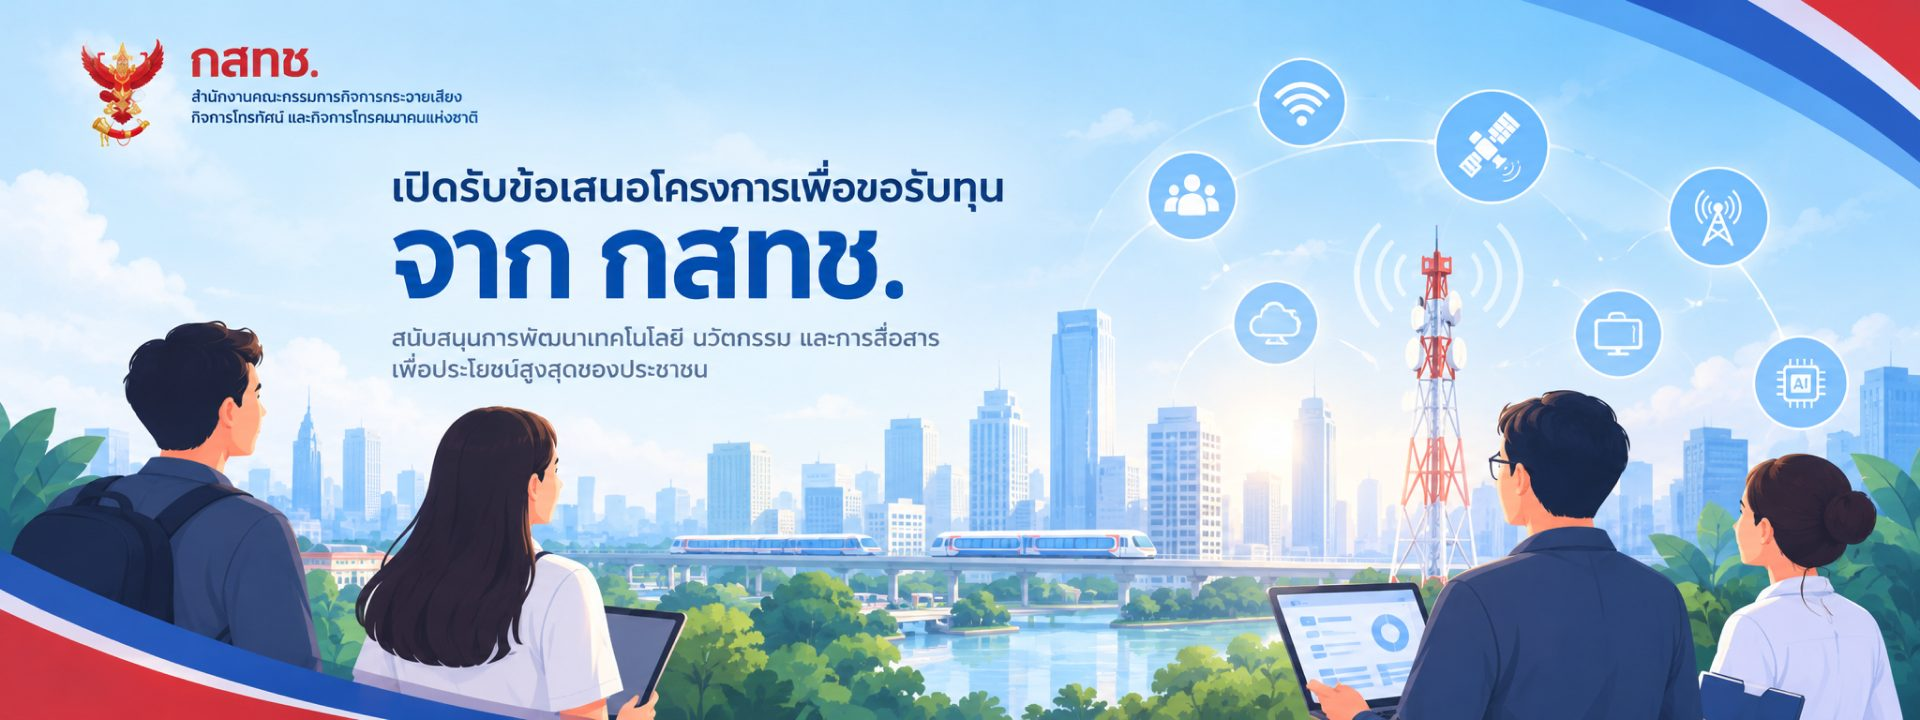
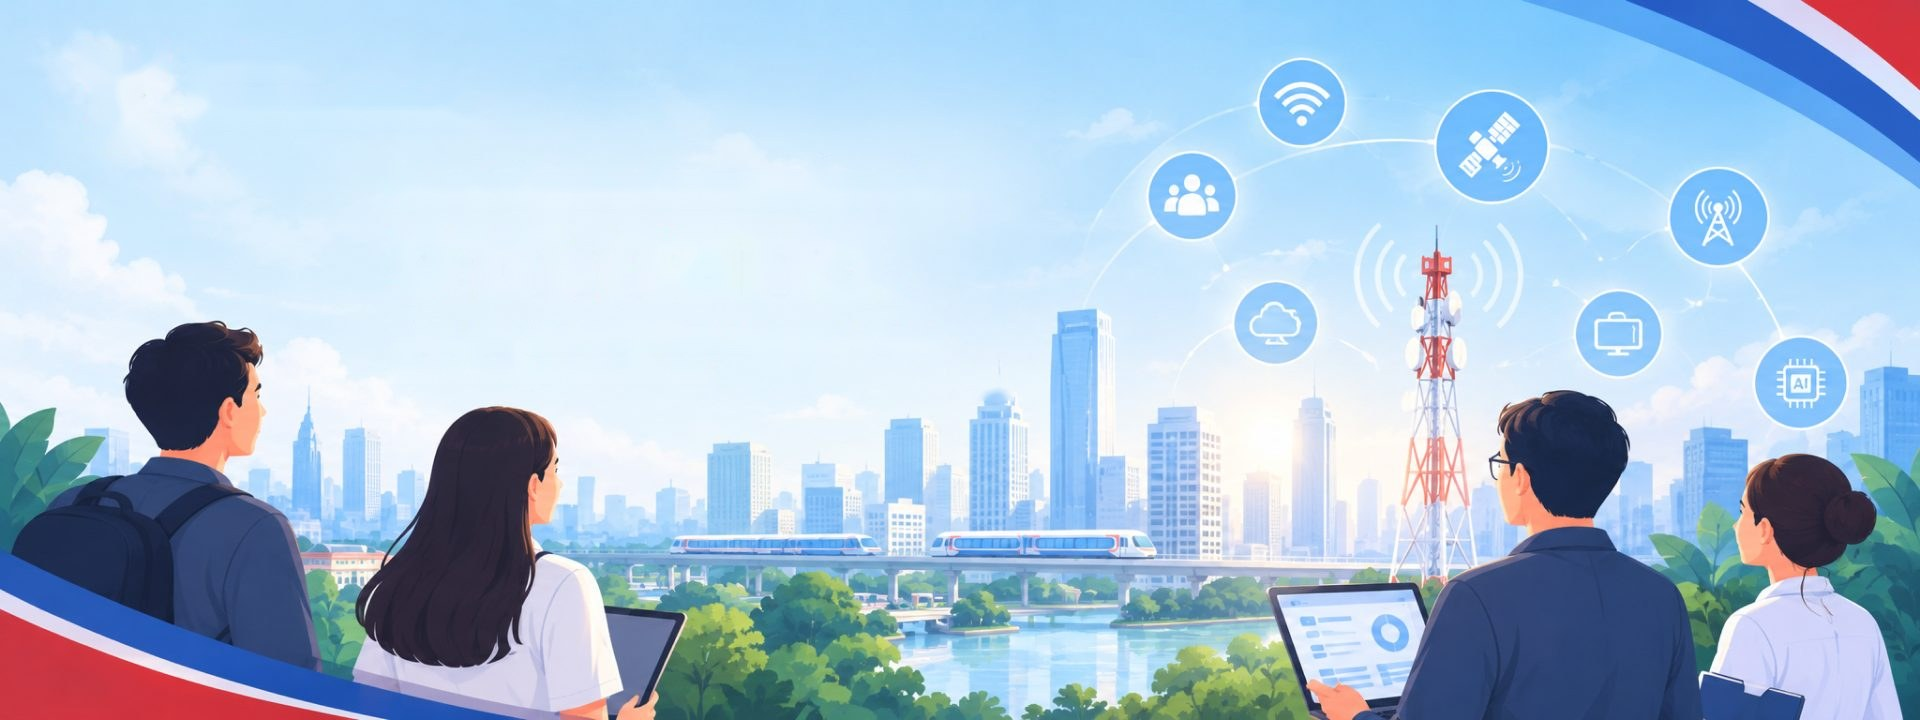
Hero สไลด์แรกใช้รูปไม่มีตัวหนังสือ ข้อความเป็น HTML ตามกฎ CT-01 รูปเดียวทั้งคอมพิวเตอร์และมือถือ
Claude-Session: https://claude.ai/code/session_01D8bS8HSU5t6nrW37xry9M6

Changed region(s): [[0.1875, 0.2139, 0.5312, 0.4278], [0.0312, 0.0611, 0.25, 0.2139], [0.1875, 0.4583, 0.5, 0.55]]

diff --git a/src/app/shared/ui/public/hero-banner.ts b/src/app/shared/ui/public/hero-banner.ts
@@ -19,12 +19,10 @@ import { BtfpIcon } from '../icon/icon';
 /**
  * btfp-hero-slide : สไลด์หนึ่งแผ่นใน btfp-hero-banner (Figma: Domain/Hero Banner, Slide=1/2/3)
  *
- * ภาพพื้นหลังออกแบบไว้ที่ 1920x720 แบบ 2 ชนิด
- * 1. ภาพที่มีข้อความอยู่ในภาพแล้ว (Slide=1) ใส่ artX / artY เป็นพิกัดของปุ่มในภาพขนาด 1920x720
- *    จอเล็กกว่า 640px ใส่ mobileImage (ภาพ 390x440) และ mobileArtX / mobileArtY เพื่อไม่ให้ข้อความในภาพโดนตัด
- *    ปุ่มจะขยับตามภาพทุกขนาดจอ
- * 2. ภาพ + ข้อความ HTML (Slide=2, 3) ใส่ overlay เพื่อทับสีน้ำเงินไล่ระดับ ข้อความเรียงซ้ายแนวเดียวกับเนื้อหาของหน้า
- *    ใส่ h1/h2 (หัวข้อ) p (คำอธิบาย) และปุ่มไว้ข้างใน ตัวอักษรจัดให้แล้ว
+ * ตามกฎหลังบ้าน CT-01 (เนื้อหาเว็บไซต์: Banner) ที่ยืนยันแล้ว
+ * - รูปเดียวใช้ทั้งคอมพิวเตอร์และมือถือ ขนาด 1920x720 จอที่สัดส่วนต่างไปจะครอปช่วงกลางของรูป (object-fit: cover)
+ * - รูปห้ามมีตัวหนังสือ หัวข้อ คำอธิบาย ป้ายกำกับ และปุ่มเป็นข้อความ HTML ที่ระบบวางทับ
+ * ใส่ overlay เพื่อทับสีน้ำเงินไล่ระดับให้อ่านตัวหนังสือสีขาวได้ ใส่ h1/h2 (หัวข้อ) p (คำอธิบาย) และปุ่มไว้ข้างใน ตัวอักษรจัดให้แล้ว
  *
  * @example
  * <btfp-hero-slide image="images/landing/hero-slide-2.jpg" overlay tag="ทุนประเภท 2 เปิดรับแล้ว" tagSeverity="success">
@@ -47,25 +45,13 @@ import { BtfpIcon } from '../icon/icon';
     '[attr.aria-hidden]': 'active() ? null : "true"',
   },
   template: `
-    <picture>
-      @if (mobileImage()) {
-        <source media="(max-width: 639px)" [attr.srcset]="mobileImage()" />
-      }
-      <img class="btfp-hero-slide__img" [class.is-art]="isArt()" [src]="image()" [alt]="alt()" draggable="false" />
-    </picture>
+    <img class="btfp-hero-slide__img" [src]="image()" [alt]="alt()" draggable="false" />
     @if (overlay()) {
       <div class="btfp-hero-slide__overlay"></div>
     }
-    <div class="btfp-hero-slide__frame" [class.is-art]="isArt()">
-      <div
-        class="btfp-hero-slide__content"
-        [class.has-mobile]="!!mobileImage()"
-        [style.--art-x]="artX()"
-        [style.--art-y]="artY()"
-        [style.--m-art-x]="mobileArtX()"
-        [style.--m-art-y]="mobileArtY()"
-      >
-        @if (tag() && !isArt()) {
+    <div class="btfp-hero-slide__frame">
+      <div class="btfp-hero-slide__content">
+        @if (tag()) {
           <span class="btfp-hero-slide__tag" [attr.data-severity]="tagSeverity()">{{ tag() }}</span>
         }
         <ng-content />
@@ -91,11 +77,8 @@ import { BtfpIcon } from '../icon/icon';
         width: 100%;
         height: 100%;
         object-fit: cover;
-        object-position: 70% center;
+        object-position: center;
         user-select: none;
-      }
-      .btfp-hero-slide__img.is-art {
-        object-position: 30% center;
       }
       .btfp-hero-slide__overlay {
         position: absolute;
@@ -109,7 +92,7 @@ import { BtfpIcon } from '../icon/icon';
         height: 100%;
         padding: 24px 16px 56px;
       }
-      .btfp-hero-slide__frame:not(.is-art) .btfp-hero-slide__content {
+      .btfp-hero-slide__content {
         display: flex;
         flex-direction: column;
         align-items: flex-start;
@@ -117,27 +100,6 @@ import { BtfpIcon } from '../icon/icon';
         width: 100%;
         max-width: 1600px;
         margin: 0 auto;
-      }
-      /* ภาพที่มีข้อความในตัว: วางปุ่มตามพิกัดในภาพ 1920x720 (ภาพใช้ object-position 30%) */
-      .btfp-hero-slide__frame.is-art {
-        position: absolute;
-        inset: 0;
-        padding: 0;
-      }
-      .btfp-hero-slide__frame.is-art .btfp-hero-slide__content {
-        position: absolute;
-        left: max(16px, calc(30cqw + var(--btfp-hero-h) * (var(--art-x) / 720 - 0.8)));
-        top: calc(var(--btfp-hero-h) * var(--art-y) / 720);
-      }
-      /* จอเล็กกว่า 640px ที่มีภาพมือถือ: ภาพออกแบบที่ 390x440 วางปุ่มตาม mobileArtX / mobileArtY */
-      @media (max-width: 639px) {
-        .btfp-hero-slide__img.is-art {
-          object-position: center top;
-        }
-        .btfp-hero-slide__frame.is-art .btfp-hero-slide__content.has-mobile {
-          left: calc(var(--m-art-x) / 390 * 100%);
-          top: calc(var(--m-art-y) / 440 * 100%);
-        }
       }
       .btfp-hero-slide__tag {
         display: inline-flex;
@@ -207,18 +169,6 @@ export class BtfpHeroSlide {
   readonly overlay = input(false, { transform: booleanAttribute });
   readonly tag = input('');
   readonly tagSeverity = input<'info' | 'success' | 'warn'>('info');
-  /** พิกัดของเนื้อหาในภาพ 1920x720 สำหรับภาพที่มีข้อความในตัว */
-  readonly artX = input(undefined, { transform: (v: unknown) => (v == null || v === '' ? undefined : numberAttribute(v)) });
-  readonly artY = input(undefined, { transform: (v: unknown) => (v == null || v === '' ? undefined : numberAttribute(v)) });
-
-  /** ภาพสำหรับจอเล็กกว่า 640px (ออกแบบที่ 390x440 ส่งไฟล์ 2 เท่า 780x880) ไม่ใส่ก็ได้ */
-  readonly mobileImage = input('');
-  /** พิกัดของปุ่มในภาพมือถือขนาด 390x440 */
-  readonly mobileArtX = input(20, { transform: numberAttribute });
-  readonly mobileArtY = input(240, { transform: numberAttribute });
-
-  readonly isArt = computed(() => this.artX() !== undefined && this.artY() !== undefined);
-
   /** ตั้งโดย btfp-hero-banner */
   readonly active = signal(false);
   readonly label = signal('');
@@ -237,7 +187,6 @@ export class BtfpHeroSlide {
  *
  * @example
  * <btfp-hero-banner label="ประกาศและผลงานเด่น">
- *   <btfp-hero-slide image="..." alt="..." artX="388" artY="430">...</btfp-hero-slide>
  *   <btfp-hero-slide image="..." overlay tag="...">...</btfp-hero-slide>
  * </btfp-hero-banner>
  */
@@ -289,10 +238,6 @@ export class BtfpHeroSlide {
   styles: `
     :host {
       --btfp-hero-h: max(37.5cqw, 440px);
-      /* จอเล็กกว่า 640px ใช้สัดส่วนภาพมือถือ 390x440 */
-      @media (max-width: 639px) {
-        --btfp-hero-h: calc(100cqw * 440 / 390);
-      }
       position: relative;
       display: block;
       container-type: inline-size;

diff --git a/src/app/shared/ui/public/public.stories.ts b/src/app/shared/ui/public/public.stories.ts
@@ -35,14 +35,16 @@ export const HeroBanner: StoryObj = {
     docs: {
       description: {
         story:
-          'Figma: Domain/Hero Banner เลื่อนเองทุก 4 วินาที (interval="0" เพื่อปิด) หยุดเมื่อชี้เมาส์หรือโฟกัส ลูกศรซ้ายขวา ปุ่มลูกศรบนคีย์บอร์ด ปัดบนจอสัมผัส และจุดเลือกสไลด์ สไลด์แรกเป็นภาพที่มีข้อความในตัว วางปุ่มด้วย artX / artY (พิกัดในภาพ 1920x720) จอเล็กกว่า 640px ใช้ mobileImage (ภาพ 390x440) สไลด์อื่นใส่ overlay + ข้อความ HTML',
+          'Figma: Domain/Hero Banner เลื่อนเองทุก 4 วินาที (interval="0" เพื่อปิด) หยุดเมื่อชี้เมาส์หรือโฟกัส ลูกศรซ้ายขวา ปุ่มลูกศรบนคีย์บอร์ด ปัดบนจอสัมผัส และจุดเลือกสไลด์ รูปเดียวใช้ทั้งคอมพิวเตอร์และมือถือ (1920x720 มือถือครอปช่วงกลาง) รูปห้ามมีตัวหนังสือ หัวข้อ คำอธิบาย ป้าย และปุ่มเป็นข้อความ HTML ที่วางทับ ใส่ overlay ทุกสไลด์ ตามกฎหลังบ้าน CT-01',
       },
     },
   },
   render: () => ({
     template: `
       <btfp-hero-banner label="ประกาศและผลงานเด่น">
-        <btfp-hero-slide image="images/landing/hero-slide-1.jpg" mobileImage="images/landing/hero-slide-1-mobile.jpg" alt="เปิดรับข้อเสนอโครงการเพื่อขอรับทุนจาก กสทช." artX="388" artY="430">
+        <btfp-hero-slide image="images/landing/hero-slide-1.jpg" overlay>
+          <h1>เปิดรับข้อเสนอโครงการ<br class="hidden md:inline" /> เพื่อขอรับทุนจาก กสทช.</h1>
+          <p>สนับสนุนการพัฒนาเทคโนโลยี นวัตกรรม และการสื่อสาร เพื่อประโยชน์สูงสุดของประชาชน</p>
           <p-button size="large"><span>ดูประกาศทุนทั้งหมด</span><btfp-icon name="chevron-right" size="20" /></p-button>
         </btfp-hero-slide>
         <btfp-hero-slide image="images/landing/hero-slide-2.jpg" overlay tag="ทุนประเภท 2 เปิดรับแล้ว" tagSeverity="success">

diff --git a/src/app/pages/public/landing/landing.html b/src/app/pages/public/landing/landing.html
@@ -13,14 +13,9 @@
 
 <!-- ===================== ป้ายสไลด์ (Figma: Domain/Hero Banner 531:90464) ===================== -->
 <btfp-hero-banner label="ประกาศและผลงานเด่น">
-  <btfp-hero-slide
-    image="images/landing/hero-slide-1.jpg"
-    mobileImage="images/landing/hero-slide-1-mobile.jpg"
-    alt="เปิดรับข้อเสนอโครงการเพื่อขอรับทุนจาก กสทช. สนับสนุนการพัฒนาเทคโนโลยี นวัตกรรม และการสื่อสาร เพื่อประโยชน์สูงสุดของประชาชน"
-    artX="388"
-    artY="430"
-  >
-    <h1 class="sr-only">ระบบประกาศทุนและผลงานทุน กทปส.</h1>
+  <btfp-hero-slide image="images/landing/hero-slide-1.jpg" overlay>
+    <h1>เปิดรับข้อเสนอโครงการ<br class="hidden md:inline" /> เพื่อขอรับทุนจาก กสทช.</h1>
+    <p>สนับสนุนการพัฒนาเทคโนโลยี นวัตกรรม และการสื่อสาร เพื่อประโยชน์สูงสุดของประชาชน</p>
     <p-button size="large" routerLink="/grants">
       <span>ดูประกาศทุนทั้งหมด</span>
       <btfp-icon name="chevron-right" size="20" />

diff --git a/README.md b/README.md
@@ -151,7 +151,7 @@ git clone <URL ของโปรเจกต์บน GitLab>
 
 ## สิ่งที่ยังเป็นตัวแทน
 
-- **รูปภาพในหน้าแรก** เป็นภาพประกอบจาก Figma ความละเอียด 1 เท่า ถ้าจะใช้จริงควรได้ไฟล์ต้นฉบับ ภาพ Hero สไลด์แรกสำหรับมือถือ (`hero-slide-1-mobile.jpg`) ประกอบจากภาพเดิม
+- **รูปภาพในหน้าแรก** เป็นภาพประกอบจาก Figma ความละเอียด 1 เท่า ถ้าจะใช้จริงควรได้ไฟล์ต้นฉบับ ภาพ Hero สไลด์แรกลบโลโก้และหัวข้อออกจากภาพใน Figma แล้ว (รูปห้ามมีตัวหนังสือตามกฎ CT-01) ควรได้ภาพต้นฉบับที่ไม่มีตัวหนังสือมาแทน
 - **โลโก้** ดึงจาก Figma เป็น PNG ถ้าได้ไฟล์ SVG ต้นฉบับให้แทนที่ใน `public/brand/`
 - เมนูอื่นนอกจากข้อเสนอโครงการ เปิดหน้า "ยังไม่ได้ขึ้นโครง" (ลิงก์ไม่เสีย)
 
